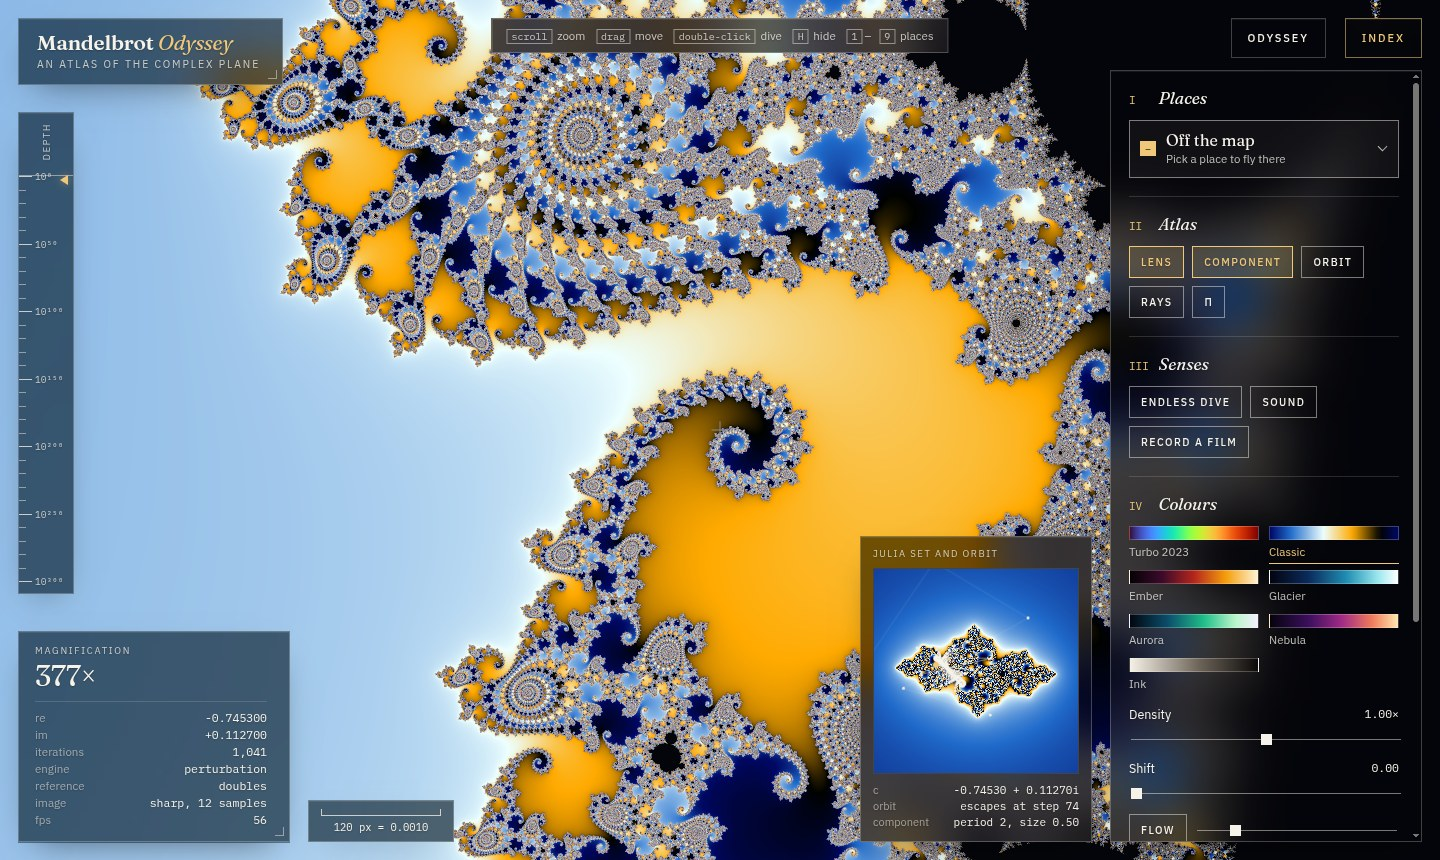
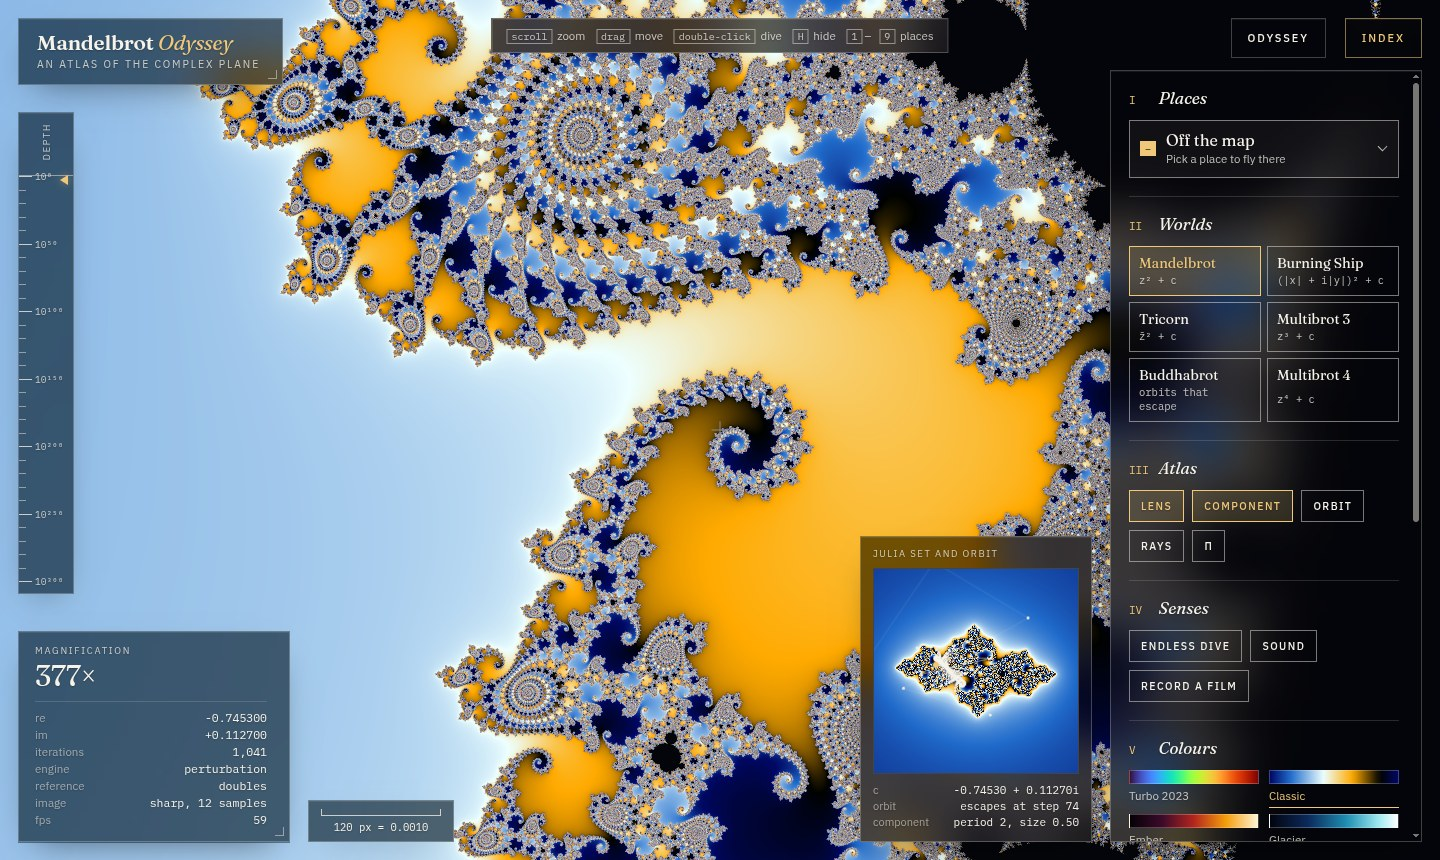
add: phase 6 in the readme, a film of the dive, new screenshots

Changed region(s): [[0.7812, 0.2419, 1.0, 0.9674], [0.9375, 0.8163, 0.9688, 0.8465]]

diff --git a/README.md b/README.md
@@ -1,6 +1,6 @@
 # Mandelbrot Odyssey
 
-A real-time journey into the Mandelbrot set, computed live on your graphics card. Scroll into a spiral, fly to the famous places of the set, dive to a magnification of 10³⁰⁰, smoothly, and read the mathematics of what you see in a live atlas: Julia sets, orbits, periods, external rays, and π. Or follow the Odyssey, a story in eight chapters told by the explorer itself, let the endless dive carry you from minibrot to minibrot down to 10²⁰⁰ and beyond, listen to the orbits, and save the dive as a film.
+A real-time journey into the Mandelbrot set, computed live on your graphics card. Scroll into a spiral, fly to the famous places of the set, dive to a magnification of 10³⁰⁰, smoothly, and read the mathematics of what you see in a live atlas: Julia sets, orbits, periods, external rays, and π. Or follow the Odyssey, a story in eight chapters told by the explorer itself, let the endless dive carry you from minibrot to minibrot down to 10²⁰⁰ and beyond, listen to the orbits, and save the dive as a film. Then visit the other worlds: the Burning Ship, the Tricorn, the Multibrots and the Buddhabrot.
 
 ## Installation
 
@@ -54,6 +54,10 @@ npm start
 
 ## Screenshots
 
+![A film made by the explorer: the dive of the 2023 script, from the whole set to 10^18](docs/dive.webp)
+
+*A film made by the explorer itself, with Record a film: the dive of the original script, from the whole set to a magnification of 10¹⁸, one sharp frame at a time.*
+
 ![The whole Mandelbrot set, with the index of places and colours](docs/screenshots/home.jpg)
 
 *The whole set. On the right, the index: places, atlas, palettes, detail. On the left, the depth gauge, from 10⁰ to 10³⁰⁰, and the readout of the engine at work. At the bottom, the lens: the Julia set of the point under the pointer, here c = −3/4.*
@@ -62,9 +66,17 @@ npm start
 
 *The Odyssey, chapter III. The story frames each place in the part of the screen it leaves free, switches on the layers that explain it, and checks its task live: here the pointer has found a bulb of period 5, whose Julia set the lens shows with its five-pointed orbit.*
 
-![The endless dive on a minibrot of period 833, 10^57 times closer](docs/screenshots/dive.jpg)
+![The endless dive on a minibrot of period 487, 10^51 times closer](docs/screenshots/dive.jpg)
 
-*The endless dive, resting on its fifth minibrot: a copy of the whole set, of period 833, 3 × 10⁵⁷ times closer, drawn with 254 900 iterations per pixel. It has already found the next one.*
+*The endless dive, resting on its fifth minibrot: a copy of the whole set, of period 487, 1.8 × 10⁵¹ times closer, drawn with 151 100 iterations per pixel. It has already found the next one.*
+
+![Four other worlds: the Burning Ship, the Tricorn, the Multibrot of z³ and the Buddhabrot](docs/screenshots/worlds.jpg)
+
+*Other worlds. The Burning Ship and its ship, the Tricorn, the Multibrot of z³, and the Buddhabrot, where random orbits that escape are counted point by point: gold for those that take up to 5000 steps, teal up to 500, blue up to 50.*
+
+![Seahorse valley in relief](docs/screenshots/relief.jpg)
+
+*Relief. The smooth count is read as a height map and lit from the upper left, at any depth.*
 
 ![The atlas: the Julia set of the period-3 bulb, its external rays and Lavaurs' diagram](docs/screenshots/atlas.jpg)
 
@@ -108,6 +120,8 @@ npm start
 - **Dive for ever.** The endless dive flies from minibrot to minibrot, each about twice as deep as the last, through the embedded Julia sets between them, down to 10²⁰⁰ and beyond; at the bottom of the map it surfaces and dives again elsewhere. Press <kbd>D</kbd>.
 - **Listen.** With the sound on, the orbit of the point under the pointer becomes a melody: a cycle of period p is a loop of p notes, an escaping orbit glides away. During the dive you hear the nucleus of the minibrot ahead. Press <kbd>M</kbd>.
 - **Make a film.** *Record a film* renders the dive from the whole set to the current view, one sharp frame at a time, as the script of 2023 did, and saves it as an MP4 in Full HD.
+- **Visit other worlds.** The Burning Ship, (|x| + i|y|)² + c, drawn upright as is the custom (click it again to fly to its ship), the Tricorn, z̄² + c, and the Multibrots z³ + c and z⁴ + c, down to a magnification of about 10⁵. And the Buddhabrot, counted live by every core of your processor.
+- **Light it.** *Relief* lights the image as a landscape. Press <kbd>L</kbd>.
 - **Colour it.** Seven palettes, including *Turbo 2023*, the colours of the original script: 150 steps of Turbo, up and back down. Change the density and the shift, or let the colours flow. Colours change instantly, without recomputing the image.
 - **Always smooth.** While you move, the image is computed at a lower resolution that fits in the frame budget. When you stop, it sharpens, then smooths its edges with up to 12 samples per pixel.
 - **Share it.** The address always holds the current view: copy the link and anyone opens the same place, with the same colours. Save the image as a PNG.
@@ -124,6 +138,7 @@ npm start
 | <kbd>1</kbd>–<kbd>9</kbd> | famous places |
 | <kbd>D</kbd> | the endless dive |
 | <kbd>M</kbd> | the sound of orbits |
+| <kbd>L</kbd> | relief |
 | <kbd>C</kbd> | flowing colours |
 | <kbd>S</kbd> | save the image |
 | <kbd>H</kbd> | hide the panels |
@@ -152,6 +167,10 @@ Graphics cards compute in 32-bit floats, which blur the image past a magnificati
 
 **Inside a minibrot.** A reference at a nucleus has an orbit one period long that ends back at 0: the pixels rebase onto its start at each period. Inside the copy, a pixel then comes back to the same offset at every return; two returns that agree to 2⁻²⁰ mark it as inside, and it stops. Outside, near the copy, an orbit makes about one turn of the period for each step the whole set would take, so a view of a deep copy needs hundreds of periods, millions of iterations, which the approximations reduce to a few hundred steps per pixel. The image in motion lowers its iterations when even the smallest preview would be late, and the image at rest batches more rows into each frame when a single row is already as slow as a whole one.
 
+**Other worlds.** The Burning Ship, the Tricorn and the Multibrots change one line of the shader's direct loop, with a smooth count of i − log_d(log₂|z|² / log₂ B²) for a rule of power d. The Buddhabrot is not computed per pixel at all: workers draw random points of the plane, skip those of the cardioid and the big disc, follow the orbits of those that escape and add every point of them to a histogram; the page adds the workers' histograms up twice a second and scales each channel to its brightest few pixels. While the view moves, the counts already made move with it; once it rests, counting starts again on the new view.
+
+**Relief.** The display reads the smooth counts as heights, takes their slope from the four neighbours of each pixel and lights the result, with a touch of shine. It costs no iteration, so it works at every depth.
+
 **Depth.** The limit is a magnification of about 10³⁰⁰, where the size of a pixel stops being an ordinary double.
 
 ```
@@ -166,6 +185,8 @@ src/story/               the eight chapters of the Odyssey and their tasks (test
 src/math/minibrot.ts     the period of a box, nuclei by Newton in fixed point, sizes (tested)
 src/dive/                the plan of the endless dive (tested), its worker, the camera
 src/senses/              the sound of orbits, the films
+src/worlds.ts            the other worlds
+src/buddha/              the Buddhabrot: its sampler (tested), its workers, its display
 src/render/shaders.ts    the same iteration in GLSL, colouring, display
 src/render/reference.ts  which reference to draw with, and when to ask for a new one
 src/render/orbit-worker.ts  deep orbits and their tables, off the page
@@ -193,7 +214,7 @@ The site runs locally. `.github/workflows/ci.yml` runs the tests and the build o
 - [x] **Phase 3.** Atlas: Julia sets and orbits under the pointer, periods and sizes of components, external rays, Lavaurs' diagram, π in seahorse valley.
 - [x] **Phase 4.** Odyssey: an interactive story in eight chapters, driven by the live explorer, with live tasks.
 - [x] **Phase 5.** Senses: the endless dive through embedded Julia sets, the inside of minibrots detected, orbits as sound, films in MP4.
-- [ ] **Phase 6.** Buddhabrot, 3D relief, other fractals.
+- [x] **Phase 6.** The Buddhabrot, relief lighting, the Burning Ship, the Tricorn and the Multibrots.
 
 ## Credits
 
